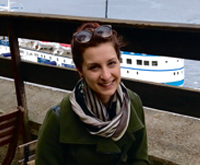
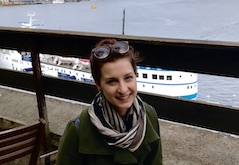
Added news item

diff --git a/news.html b/news.html
@@ -84,6 +84,13 @@ Free for personal and commercial use under the CCA 3.0 license (html5up.net/lice
 						<!-- News Items -->
 						<!-- NEW ROW -->
 		 <div class="row">
+             <!-- Feature -->
+			 <div class="3u 12u(mobile)">
+				 <a class="image featured"><img height="165" src="images/dailey-news.jpg"/></a>
+				 <h3>Summer Research Fellowship</h3>
+				 <ul class="meta"><li class="icon fa-clock-o">1/22/21</li></ul><br>
+				 PhD student <b>Shannon Dailey</b> has received the competitive Summer Research Fellowship from the Duke Graduate School.
+												 </div>
 			 <!-- Feature -->
 			 <div class="3u 12u(mobile)">
 				 <a class="image featured"><img height="165" src="images/baby_labs3.jpg"/></a>
